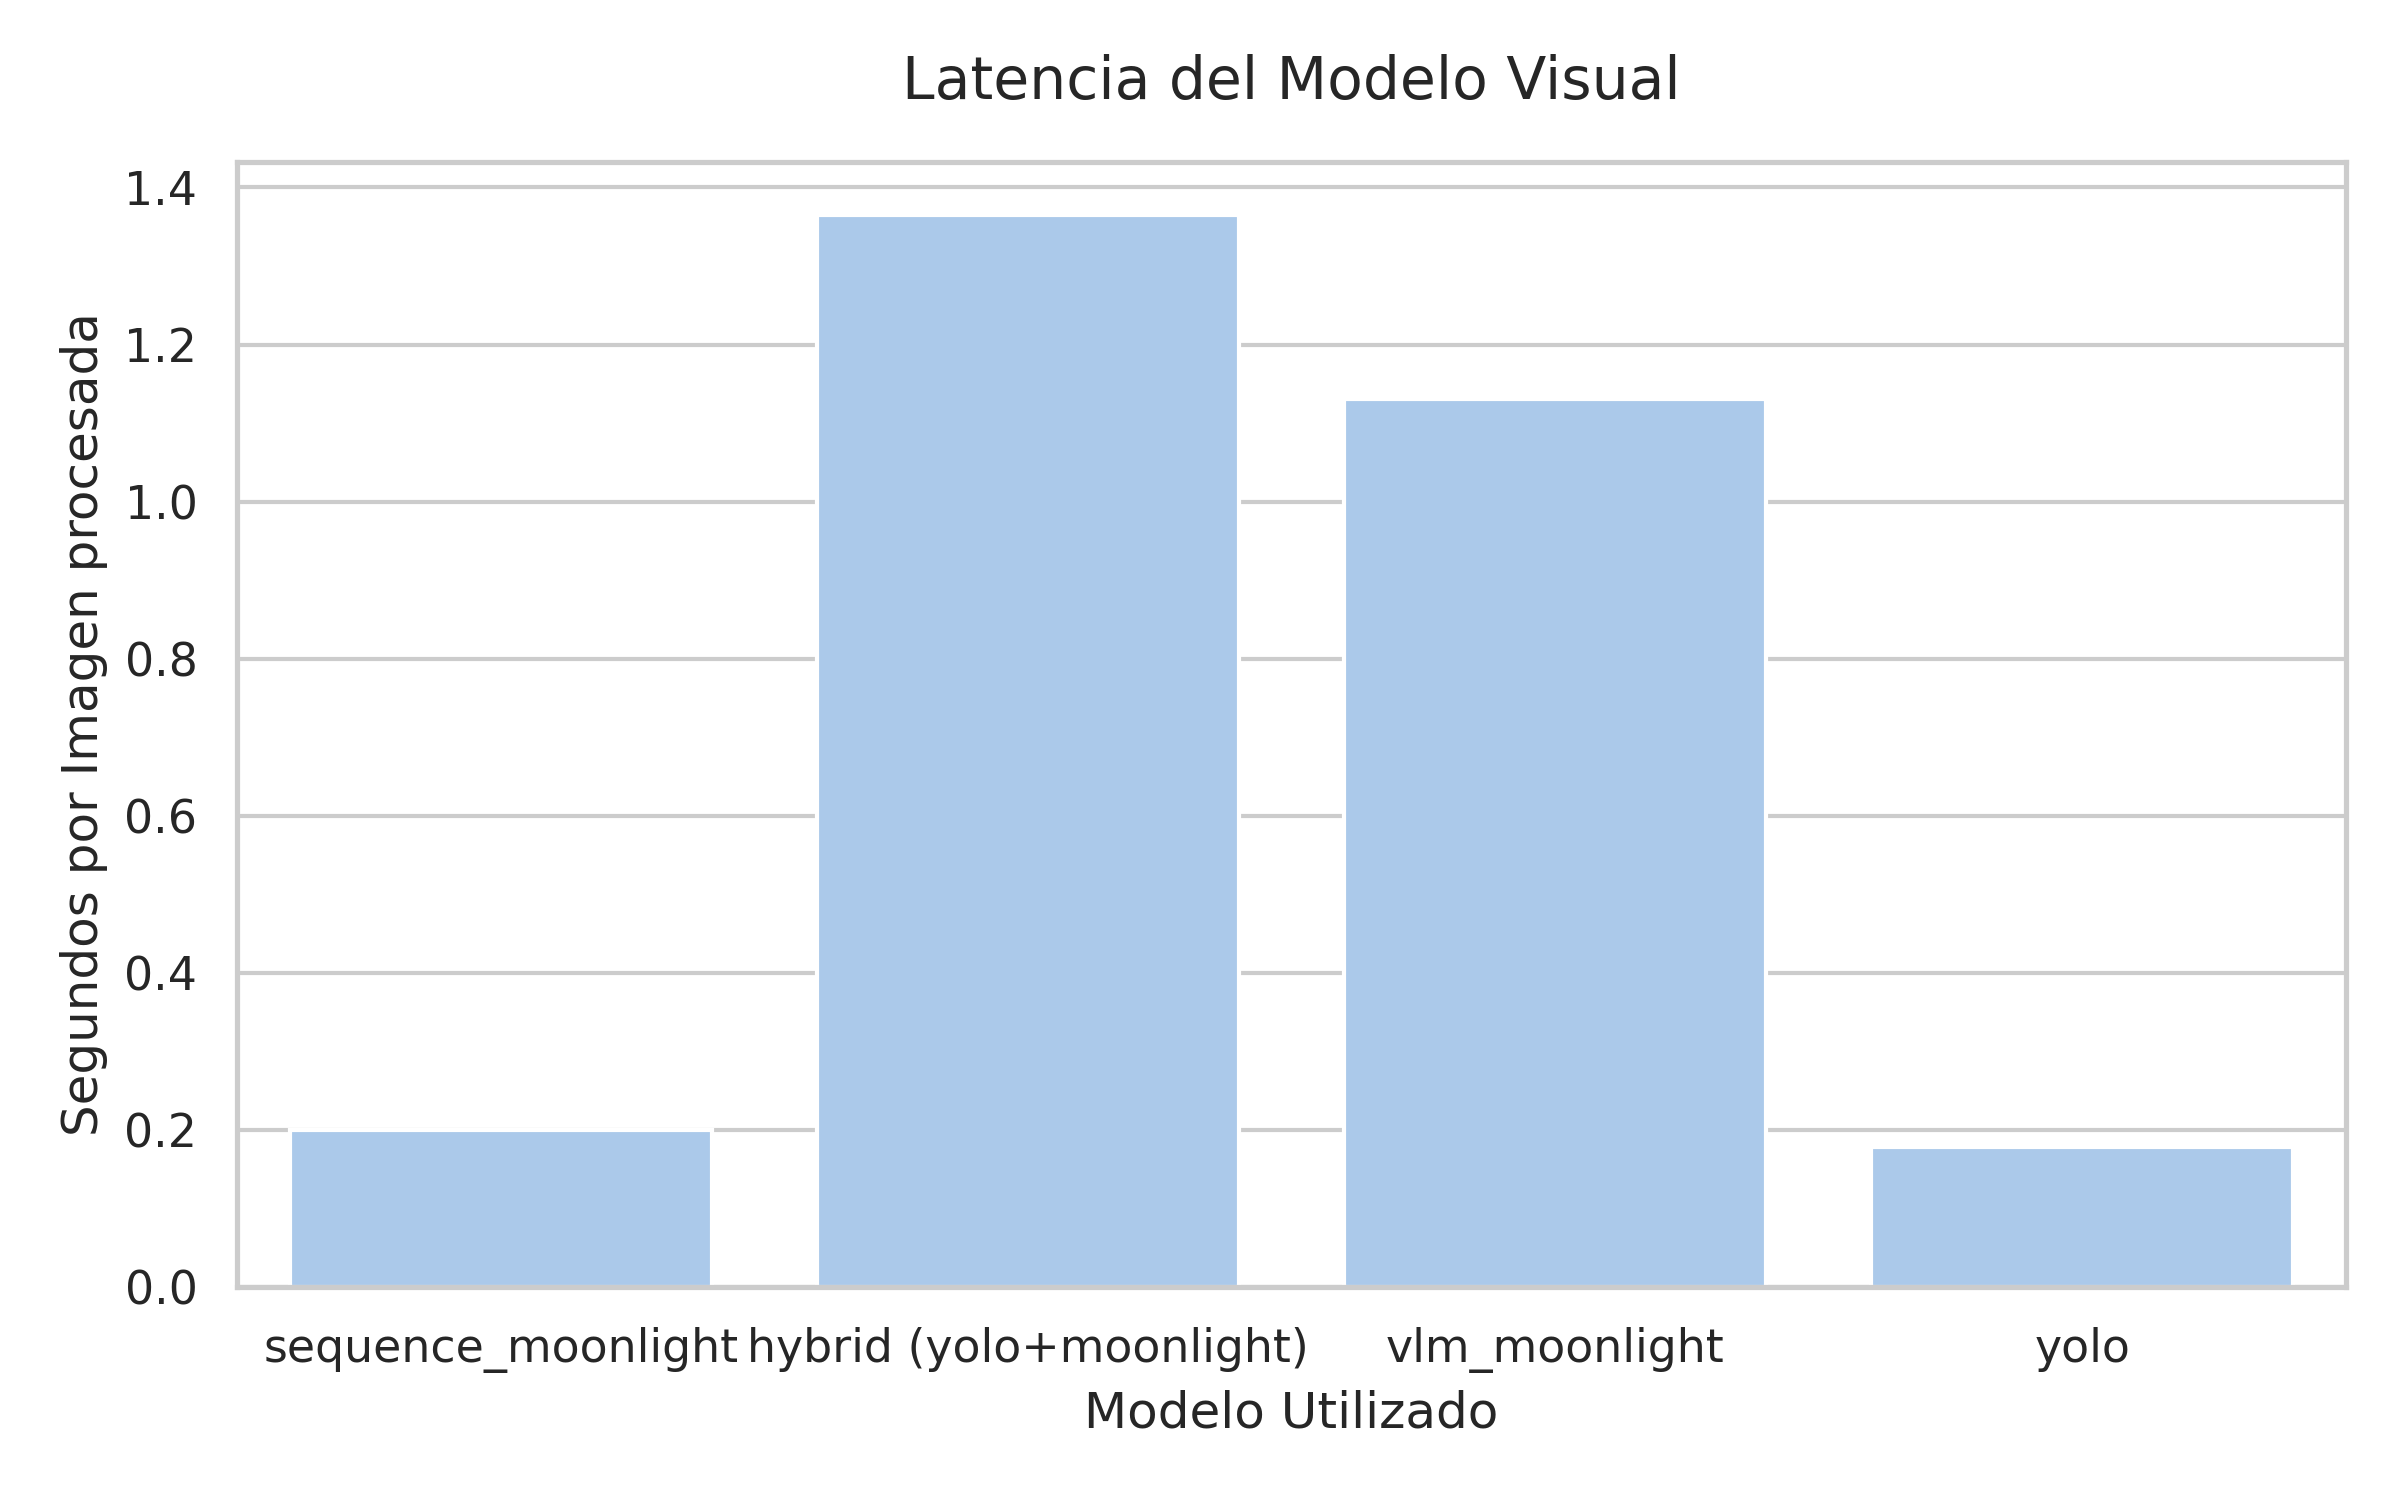
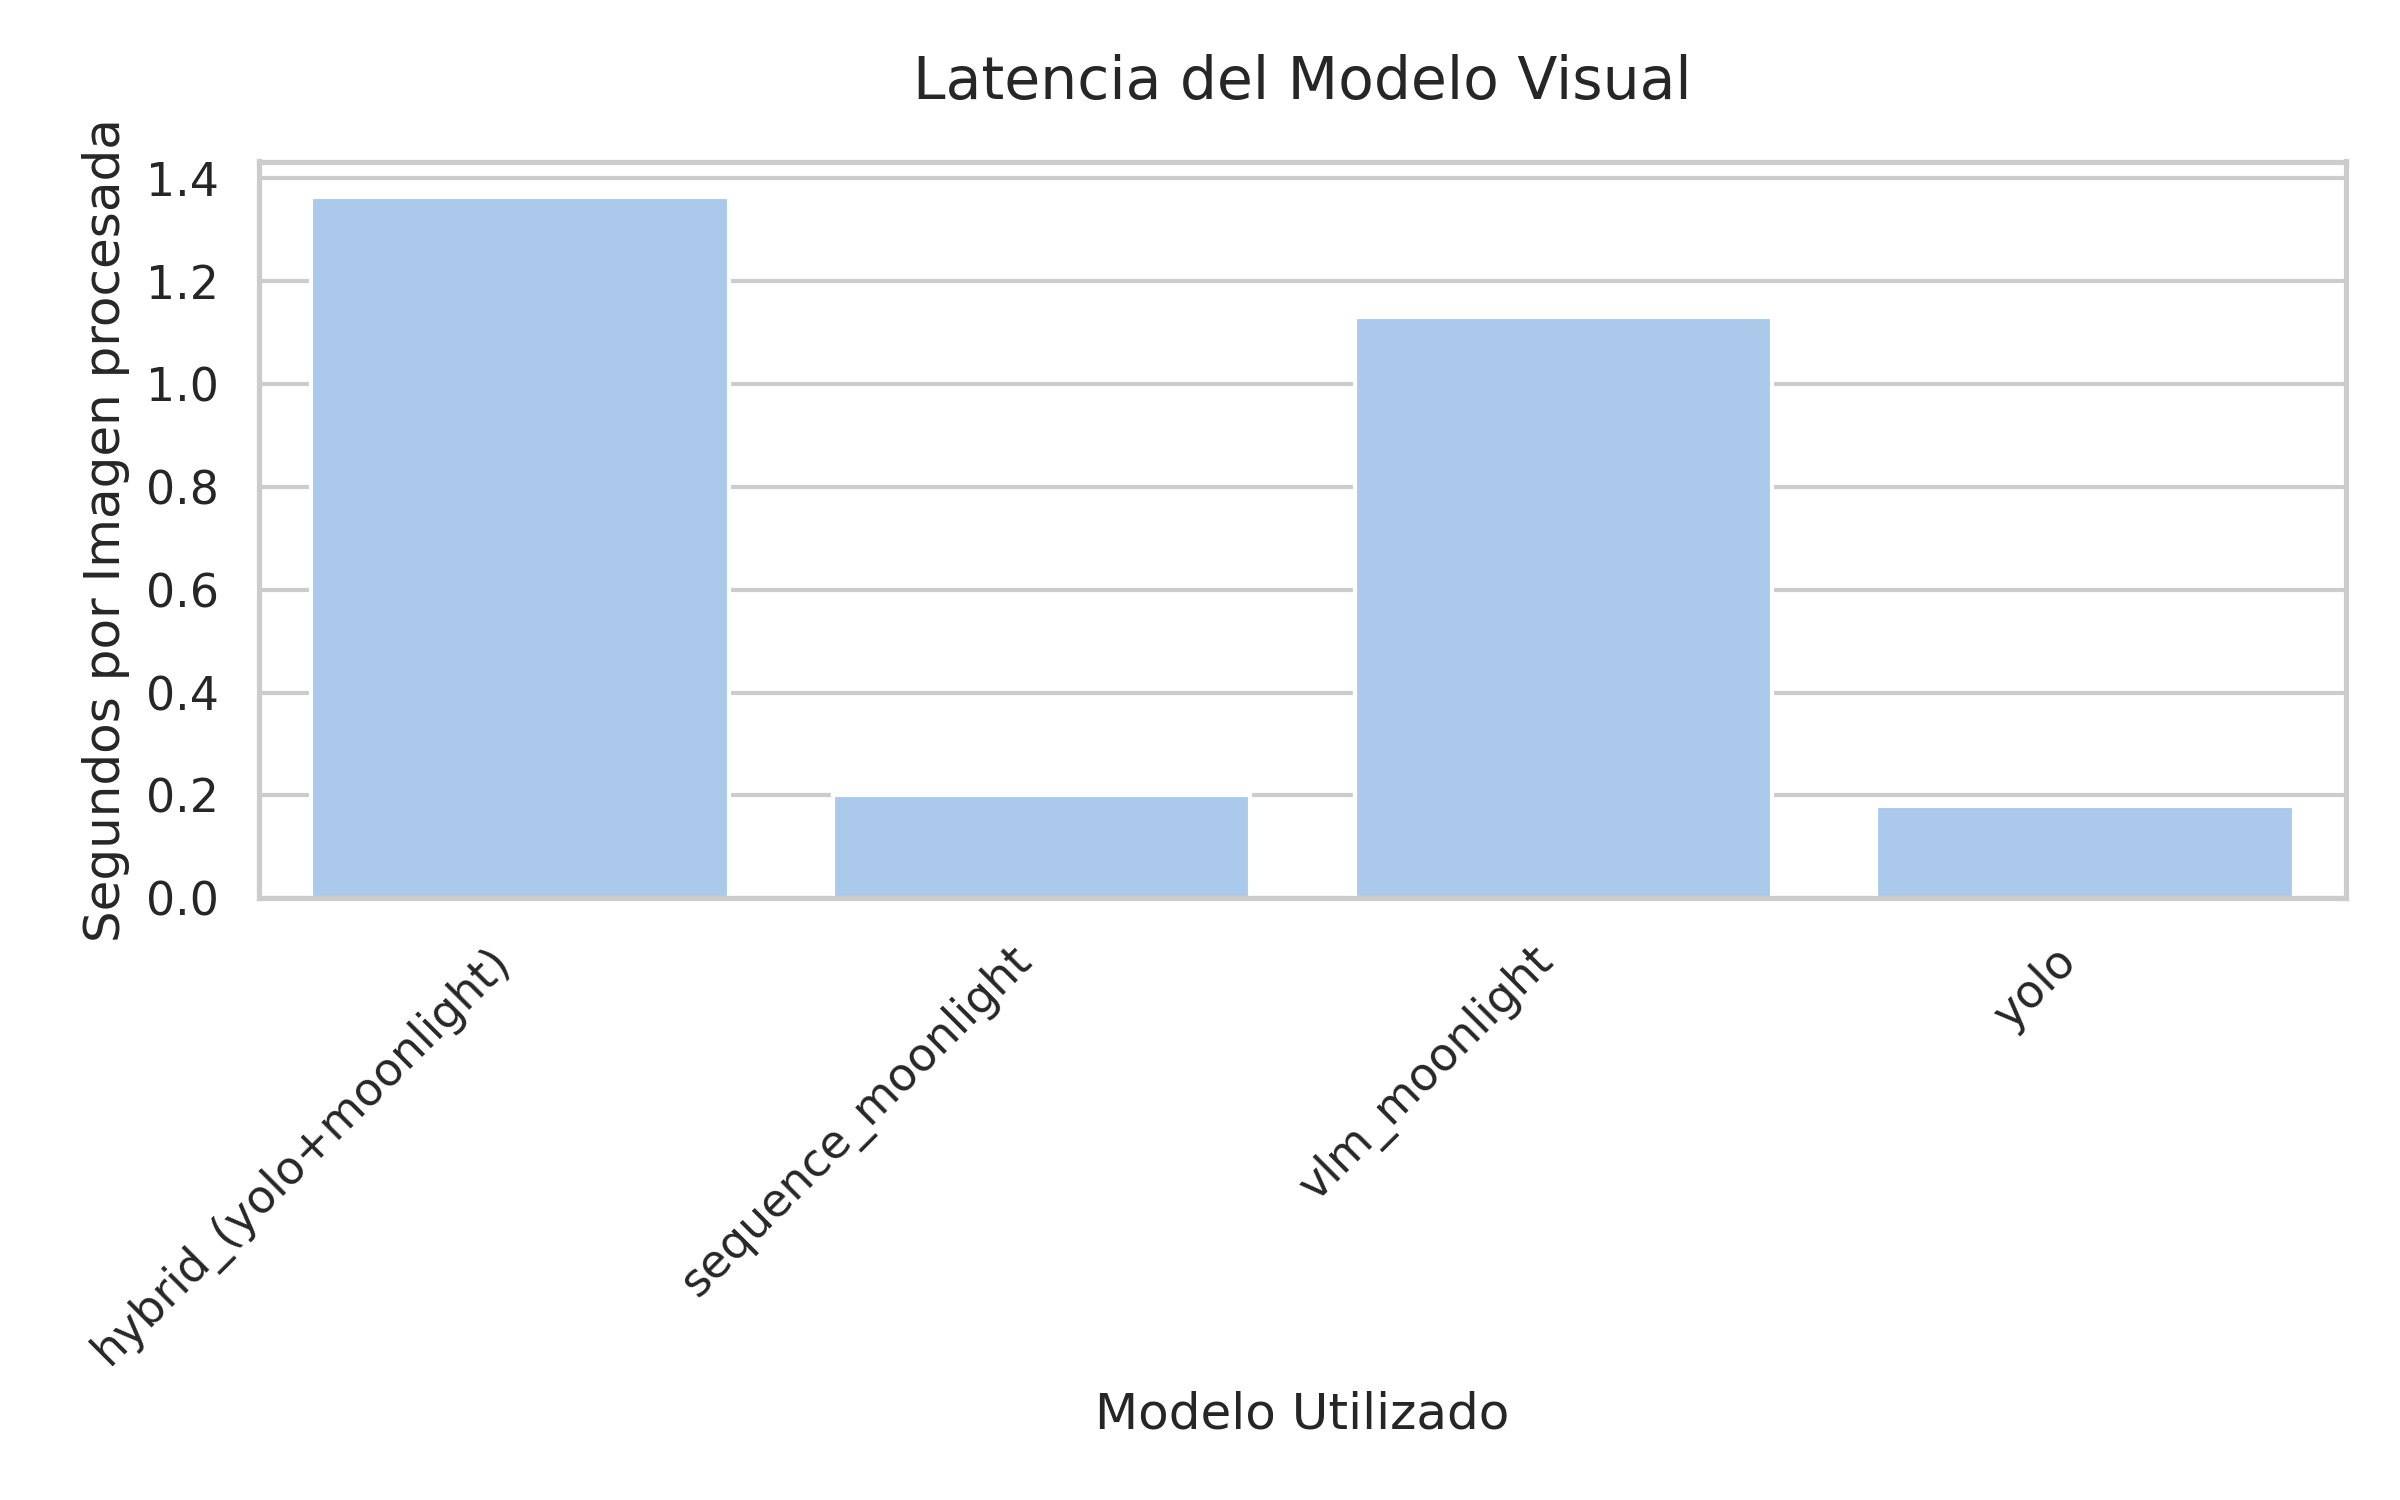
#40 Varias mejoras al script generador de graficas: - Ahora todas las graficas se ordenan alfabeticamente - Regenerado las gráficas con el nuevo script - Agregado gráficas "mixtas" con el JSON y sin él en la misma - Eliminado el script antiguo

diff --git a/workspace/src/ruta_hospital/ruta_hospital/evaluation/generate_metrics.py b/workspace/src/ruta_hospital/ruta_hospital/evaluation/generate_metrics.py
@@ -69,6 +69,18 @@ def load_ragas_data(ragas_dir):
     df_summary = pd.DataFrame(summary_list).sort_values(by='Final_Score', ascending=False)
     return df_summary
 
+def get_dynamic_rotation(labels):
+    """Devuelve la rotacion de etiqueta óptima según el número y logitud de estas"""
+    num_labels = len(labels)
+    max_len = max([len(str(label)) for label in labels]) if num_labels > 0 else 0
+    
+    # Si hay pocos modelos y sus nombres son cortos horizontales
+    if num_labels <= 3 and max_len <= 18:
+        return 0, 'center'
+    # Si son muchos o muy largos rotacion de 45 grados
+    else:
+        return 45, 'right'
+
 def generate_performance_summary(df, output_dir):
     """Imprime y guarda los resultados"""
     print("\n" + "="*60)
@@ -91,7 +103,7 @@ def generate_performance_summary(df, output_dir):
     display_table.to_csv(os.path.join(output_dir, "tabla_resumen_rendimiento.csv"))
 
 def generate_ragas_summary(df, output_dir):
-    """Prints and saves the Ragas evaluation summary table."""
+    """Guarda la evaluacion de RAFAS"""
     print("\n" + "="*60)
     print("  RESUMEN DE EVALUACIÓN RAGAS (Calidad de Respuesta)")
     print("="*60)
@@ -102,25 +114,33 @@ def generate_ragas_summary(df, output_dir):
 
 def generate_performance_plots(df, output_dir):
     """Genera las gráficas de rendimientos """
+    unique_models = df['modelo_reportero'].unique() # para ordenarlos
+    ordered_labels = sorted(unique_models, key=lambda x: (x.replace('_JSON', ''), x))
+
+    rot, align = get_dynamic_rotation(ordered_labels)
+    
     # Tiempos de procesamiento
     plt.figure(figsize=(10, 6))
     summary_times = df.groupby('modelo_reportero')[['tiempo_percepcion_segundos', 'tiempo_llm_segundos']].mean()
+    summary_times = summary_times.reindex(ordered_labels)
+
     summary_times.plot(kind='bar', stacked=True, color=['#4C72B0', '#55A868'], figsize=(10, 6))
     plt.title("Tiempo Medio de Procesamiento por Patrulla", fontsize=14, pad=15)
     plt.xlabel("Modelo Utilizado", fontsize=12)
     plt.ylabel("Segundos", fontsize=12)
     plt.legend(["Percepción (Visión)", "Razonamiento (LLM)"])
-    plt.xticks(rotation=0)
+    plt.xticks(rotation=rot, ha=align)
     plt.tight_layout()
     plt.savefig(os.path.join(output_dir, "1_desglose_tiempos.png"), dpi=300)
     plt.close()
 
     # Latencia
     plt.figure(figsize=(8, 5))
-    sns.barplot(data=df, x='modelo_reportero', y='segundos_por_imagen', errorbar='sd', capsize=.1)
+    sns.barplot(data=df, x='modelo_reportero', y='segundos_por_imagen', order=ordered_labels, errorbar='sd', capsize=.1)
     plt.title("Latencia del Modelo Visual", fontsize=14, pad=15)
     plt.xlabel("Modelo Utilizado", fontsize=12)
     plt.ylabel("Segundos por Imagen procesada", fontsize=12)
+    plt.xticks(rotation=rot, ha=align)
     plt.tight_layout()
     plt.savefig(os.path.join(output_dir, "2_latencia_visual.png"), dpi=300)
     plt.close()
@@ -128,23 +148,25 @@ def generate_performance_plots(df, output_dir):
     # Análisis de verbosidad
     plt.figure(figsize=(10, 6))
     summary_chars = df.groupby('modelo_reportero')[['caracteres_contexto_visual', 'caracteres_informe_final']].mean()
+    summary_chars = summary_chars.reindex(ordered_labels)
     summary_chars.plot(kind='bar', width=0.7, color=['#C44E52', '#8172B3'], figsize=(10, 6))
     plt.title("Análisis de Verbosidad (Texto procesado)", fontsize=14, pad=15)
     plt.xlabel("Modelo Utilizado", fontsize=12)
     plt.ylabel("Cantidad de Caracteres", fontsize=12)
     plt.legend(["Contexto Visual Generado", "Informe Final (Llama-3)"])
-    plt.xticks(rotation=0)
+    plt.xticks(rotation=rot, ha=align)
     plt.tight_layout()
     plt.savefig(os.path.join(output_dir, "3_analisis_verbosidad.png"), dpi=300)
     plt.close()
 
     # Estabilidad (boxplot)
     plt.figure(figsize=(8, 6))
-    sns.boxplot(data=df, x='modelo_reportero', y='tiempo_total_segundos', palette="Set2")
+    sns.boxplot(data=df, x='modelo_reportero', y='tiempo_total_segundos', order=ordered_labels, palette="Set2")
     sns.stripplot(data=df, x='modelo_reportero', y='tiempo_total_segundos', color=".3", size=6, alpha=0.6)
     plt.title("Estabilidad del Tiempo de Ejecución (Boxplot)", fontsize=14, pad=15)
     plt.xlabel("Modelo Utilizado", fontsize=12)
     plt.ylabel("Tiempo Total (Segundos)", fontsize=12)
+    plt.xticks(rotation=rot, ha=align)
     plt.tight_layout()
     plt.savefig(os.path.join(output_dir, "4_estabilidad_tiempos.png"), dpi=300)
     plt.close()
@@ -155,6 +177,8 @@ def generate_ragas_plots(df, output_dir):
     correctness = df['Correctness'].tolist()
     relevancy = df['Relevancy'].tolist()
     final_score = df['Final_Score'].tolist()
+    
+    rot, align = get_dynamic_rotation(labels)
 
     x_positions = np.arange(len(labels))
     bar_width = 0.25
@@ -168,7 +192,7 @@ def generate_ragas_plots(df, output_dir):
     ax.set_ylabel('Puntuación (0.0 - 1.0)')
     ax.set_title('Comparativa de Calidad de Respuestas (Evaluación Ragas)')
     ax.set_xticks(x_positions)
-    ax.set_xticklabels(labels, rotation=15, ha="right")
+    ax.set_xticklabels(labels, rotation=rot, ha=align)
     ax.set_ylim(0, 1.1) 
     ax.legend()
 
